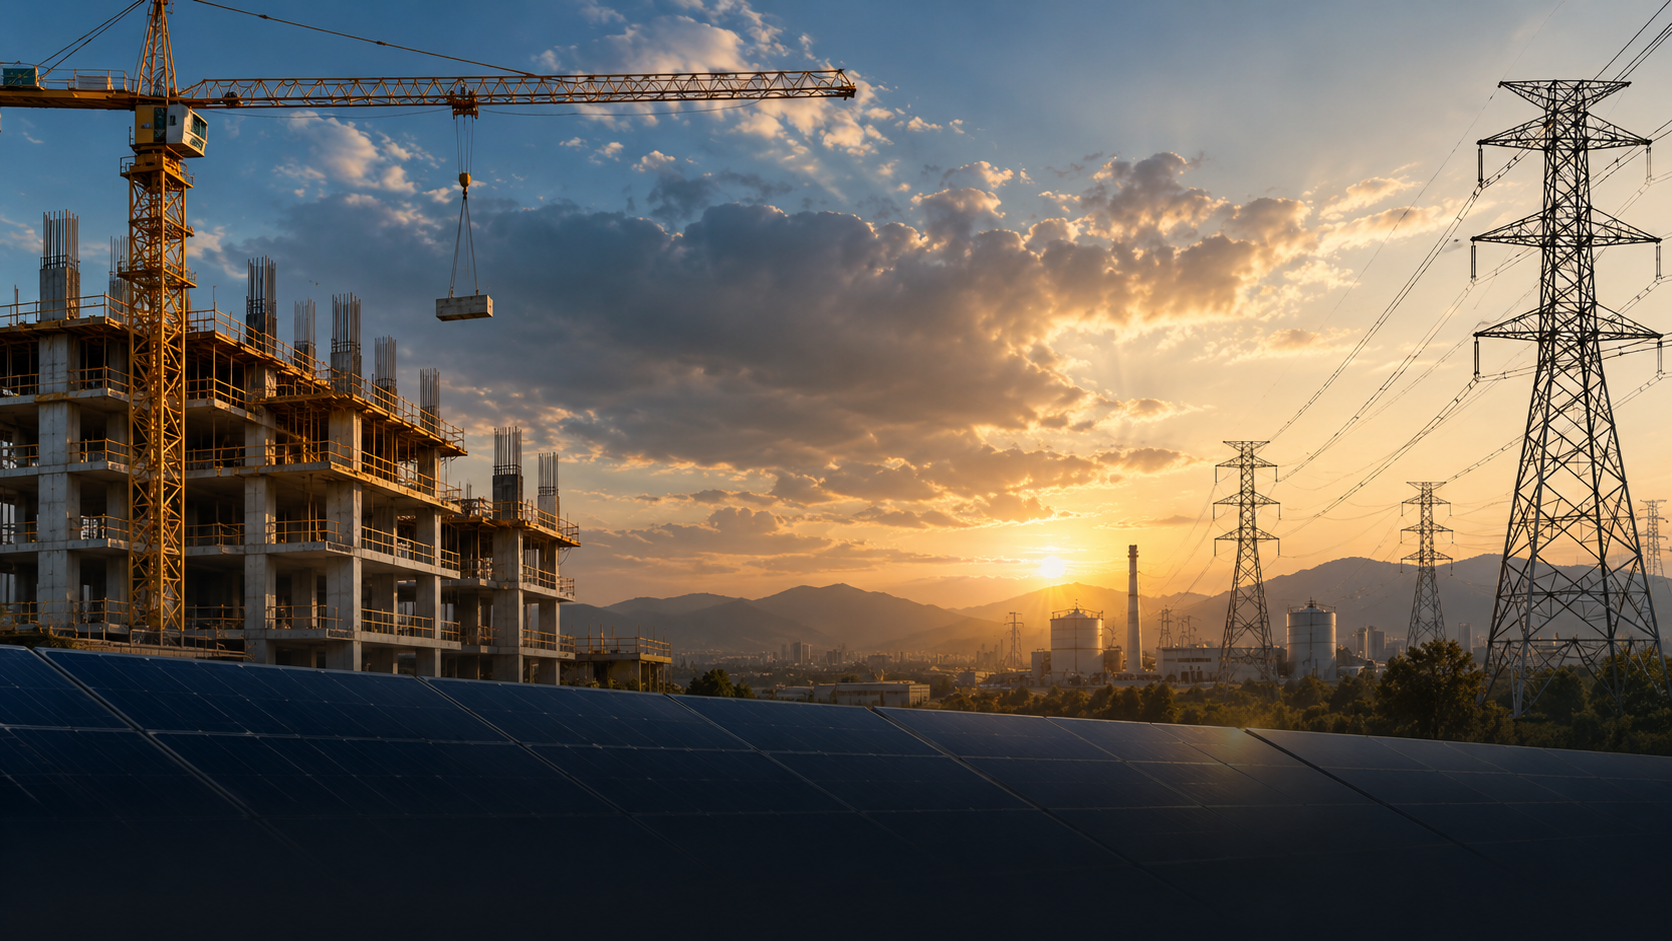
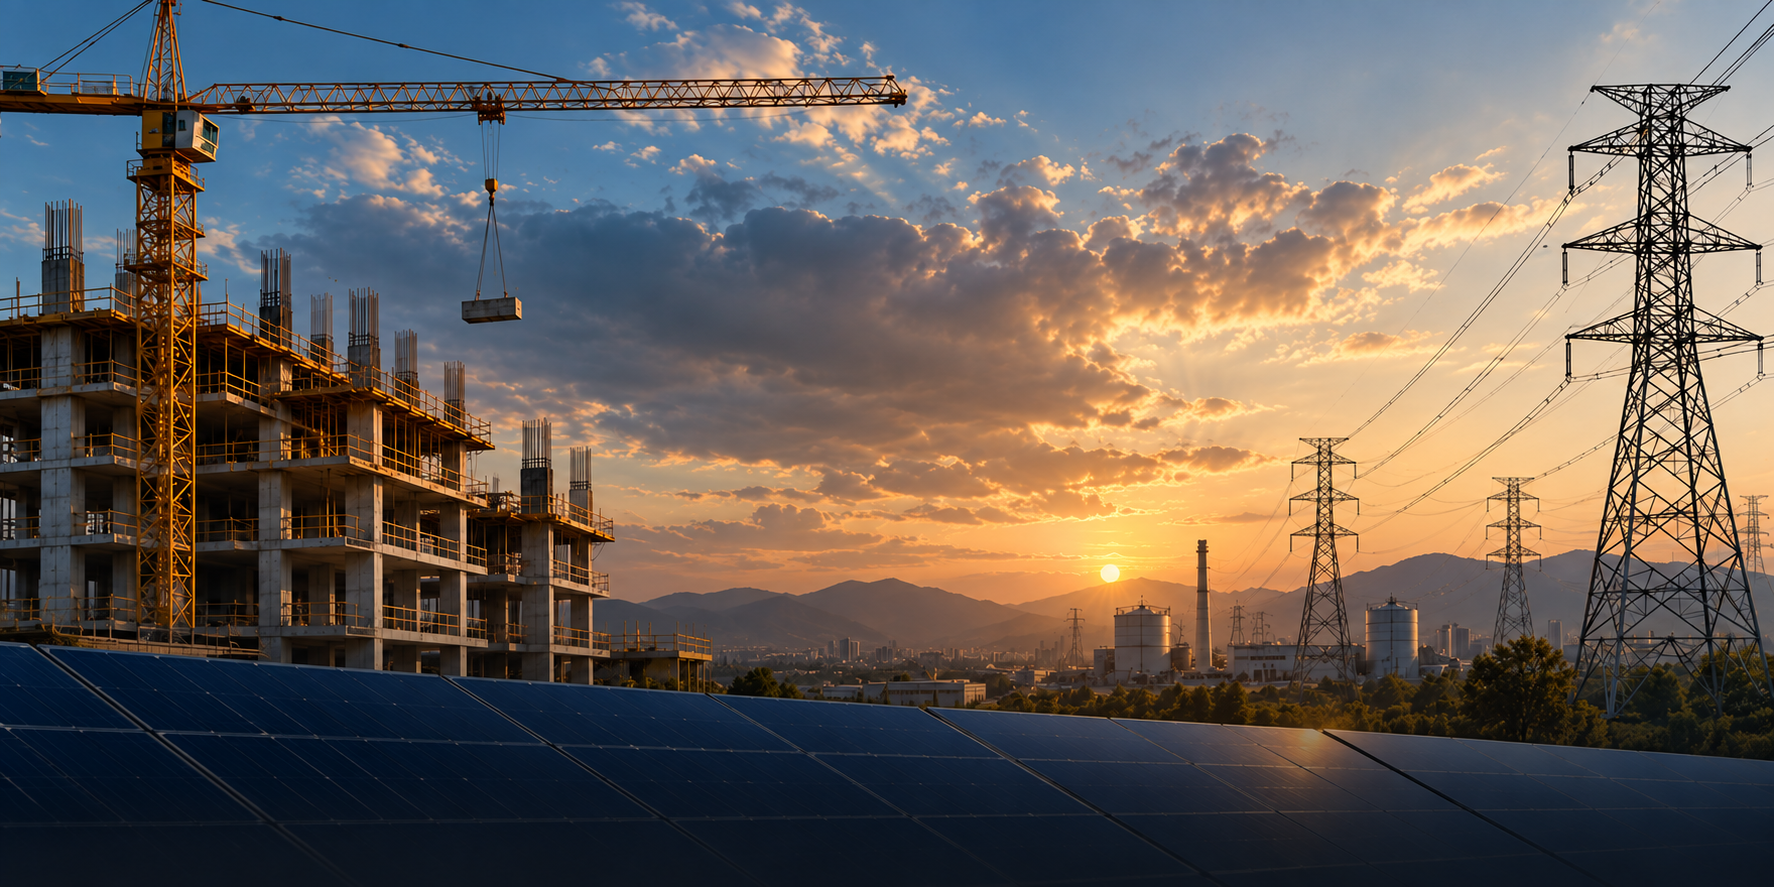
atualização do dia

diff --git a/styles/index.css b/styles/index.css
@@ -1,0 +1,80 @@
+@import url('https://fonts.googleapis.com/css2?family=Archivo+Black&family=Montserrat:ital,wght@0,100..900;1,100..900&family=Quicksand:wght@300..700&display=swap');
+* {
+    padding: 0;
+    margin: 0;
+    font-family: "Quicksand", sans-serif;
+}
+body {
+    min-height: 200vh;
+}
+@media screen and (max-width: 600px) {
+    .hero {
+        padding: 120px 1.5rem 2rem;
+        min-height: 75svh;
+    }
+
+    .restoTemporario h1 {
+        font-size: 2rem;
+    }
+
+    .restoTemporario h2 {
+        font-size: 1.125rem;
+    }
+}
+
+.hero {
+    box-sizing: border-box;
+    width: 100%;
+    aspect-ratio: 1672 / 941;
+    margin-top: -60px;
+    padding: 120px 5rem 12rem;
+    display: flex;
+    flex-direction: column;
+    justify-content: flex-end;
+    background-image: url(../images/background.png);
+    background-repeat: no-repeat;
+    background-size: 100% auto;
+    background-position: center top;
+}
+.restoTemporario {
+    color: white;
+    min-width: 0;
+    overflow-wrap: break-word;
+}
+.restoTemporario h1 {
+    font-weight: 400;
+    font-size: 2.5rem;
+}
+.yText {
+    color: #fafa1e;
+    font-weight: bold;
+    font-style: italic;
+}
+.restoTemporario h2 {
+    margin-top: 1rem;
+    width: 60rem;
+    font-weight: 400;
+    font-size: 1.375rem;
+    font-style: italic;
+    opacity: .8;
+}
+.getInTouch {
+    display: flex;
+    align-items: center;
+    margin-top: 1rem;
+    background-color: #fafa1e;
+    justify-content: center;
+    width: 11rem;
+    border-radius: 1.5rem;
+    height: 3rem;
+    font-family: "Quicksand", sans-serif;
+    font-size: 1.1em;
+    color: inherit;
+    text-decoration: none;
+    font-weight: 600;
+    transition: .2s;
+}
+.getInTouch:hover {
+    color: #fafa1e;
+    background-color: white;
+}

diff --git a/index.html b/index.html
@@ -5,6 +5,7 @@
     <meta name="viewport" content="width=device-width, initial-scale=1.0">
     <title>Ispezionare Engenharia</title>
     <link rel="stylesheet" href="styles/main.css">
+    <link rel="stylesheet" href="styles/index.css">
 </head>
 <body>
     <div class="headerItens">
@@ -18,8 +19,15 @@
             <a href="pages/services.html" class="iconsText servicos">Serviços</a>
         </div>
         <div class="contact">
-            <a href="https://wa.me/message/LAXNS5ODI656J1" class="waMe">Contact Us ↗</a>
+            <a href="https://wa.me/message/LAXNS5ODI656J1" class="waMe" target="_blank">Contact Us ↗</a>
         </div>
     </div>
+    <section class="hero">
+    <div class="restoTemporario">
+        <h1>Diagnósticos <span class="yText">precisos</span> para decisões <span class="yText">mais seguras</span>.</h1>
+        <h2>A Ispezionare Engenharia atua em Engenharia Diagnóstica, oferecendo análises técnicas precisas para identificar falhas, compreender causas e orientar decisões com segurança.</h2>
+        <a href="pages/aboutUs.html" class="getInTouch">Conheça a gente!</a>
+    </div>
+    </section>
 </body>
 </html>

diff --git a/pages/aboutUs.html b/pages/aboutUs.html
@@ -1,0 +1,25 @@
+<!DOCTYPE html>
+<html lang="pt-br">
+<head>
+    <meta charset="UTF-8">
+    <meta name="viewport" content="width=device-width, initial-scale=1.0">
+    <title>Ispezionare Engenharia</title>
+    <link rel="stylesheet" href="../styles/main.css">
+</head>
+<body>
+    <div class="headerItens">
+        <div class="logo">
+            <img src="../images/logoHeader.png" class="logoHeader">
+        </div>
+        <div class="icons">
+            <a href="../index.html" class="iconsText home">Home</a>
+            <a href="aboutUs.html" class="iconsText sobreNos">Sobre Nós</a>
+            <a href="projects.html" class="iconsText projetos">Projetos</a>
+            <a href="services.html" class="iconsText servicos">Serviços</a>
+        </div>
+        <div class="contact">
+            <a href="https://wa.me/message/LAXNS5ODI656J1" class="waMe" target="_blank">Contact Us ↗</a>
+        </div>
+    </div>
+</body>
+</html>

diff --git a/pages/projects.html b/pages/projects.html
@@ -1,0 +1,25 @@
+<!DOCTYPE html>
+<html lang="pt-br">
+<head>
+    <meta charset="UTF-8">
+    <meta name="viewport" content="width=device-width, initial-scale=1.0">
+    <title>Ispezionare Engenharia</title>
+    <link rel="stylesheet" href="../styles/main.css">
+</head>
+<body>
+    <div class="headerItens">
+        <div class="logo">
+            <img src="../images/logoHeader.png" class="logoHeader">
+        </div>
+        <div class="icons">
+            <a href="../index.html" class="iconsText home">Home</a>
+            <a href="aboutUs.html" class="iconsText sobreNos">Sobre Nós</a>
+            <a href="projects.html" class="iconsText projetos">Projetos</a>
+            <a href="services.html" class="iconsText servicos">Serviços</a>
+        </div>
+        <div class="contact">
+            <a href="https://wa.me/message/LAXNS5ODI656J1" class="waMe" target="_blank">Contact Us ↗</a>
+        </div>
+    </div>
+</body>
+</html>

diff --git a/pages/services.html b/pages/services.html
@@ -1,0 +1,25 @@
+<!DOCTYPE html>
+<html lang="pt-br">
+<head>
+    <meta charset="UTF-8">
+    <meta name="viewport" content="width=device-width, initial-scale=1.0">
+    <title>Ispezionare Engenharia</title>
+    <link rel="stylesheet" href="../styles/main.css">
+</head>
+<body>
+    <div class="headerItens">
+        <div class="logo">
+            <img src="../images/logoHeader.png" class="logoHeader">
+        </div>
+        <div class="icons">
+            <a href="../index.html" class="iconsText home">Home</a>
+            <a href="aboutUs.html" class="iconsText sobreNos">Sobre Nós</a>
+            <a href="projects.html" class="iconsText projetos">Projetos</a>
+            <a href="services.html" class="iconsText servicos">Serviços</a>
+        </div>
+        <div class="contact">
+            <a href="https://wa.me/message/LAXNS5ODI656J1" class="waMe" target="_blank">Contact Us ↗</a>
+        </div>
+    </div>
+</body>
+</html>

diff --git a/styles/main.css b/styles/main.css
@@ -6,13 +6,12 @@
 
 body {
     min-height: 200vh;
-    background-image: url(../images/background.png);
-    background-repeat: no-repeat;
-    background-size: 100% auto;
-    background-position: center top;
 }
 
 .headerItens {
+    position: sticky;
+    top: 0;
+    z-index: 1000;
     display: grid;
     grid-template-columns: auto 1fr auto;
     grid-template-rows: minmax(0, 1fr);
